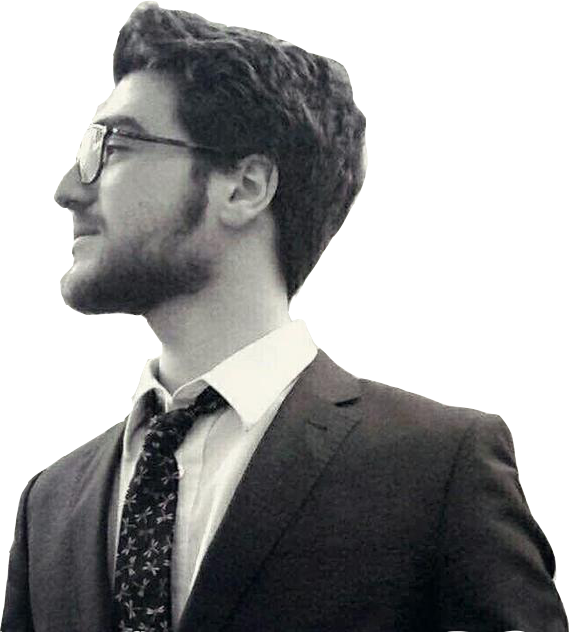
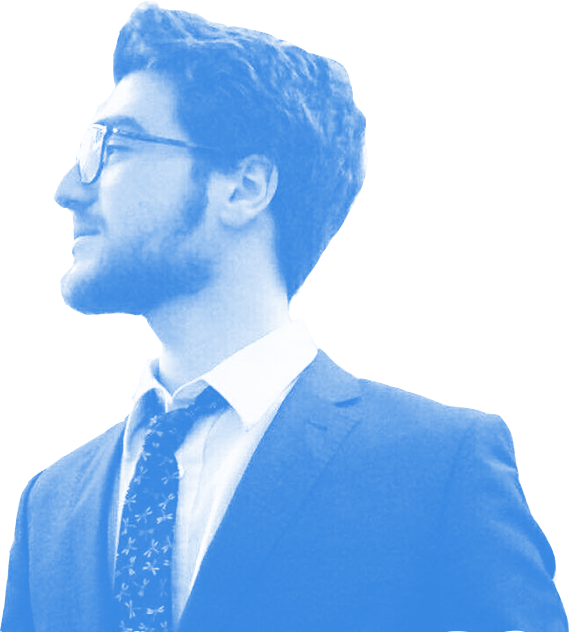
added 'about me' section and video

diff --git a/index.html b/index.html
@@ -16,7 +16,7 @@
     <title>Josh For America Exploratory Committee</title>
     <link rel="stylesheet" href="css/stylesheet.css">
     <link rel="stylesheet" href="css/bootstrap.css">
-    <link href="https://fonts.googleapis.com/css?family=Open+Sans:300,400,500,800|Satisfy" rel="stylesheet">
+    <link href="https://fonts.googleapis.com/css?family=Open+Sans:300,400,500,800" rel="stylesheet">
   </head>
   <body>
     <div class="main">
@@ -26,11 +26,16 @@
       <header>
         <h1 class="title">Josh for <br /> <span class="redtext">America</span></h1>
       </header>
-      <section class="intro">
+      <section id="intro">
         <h2>It's time for a new, <i>new</i> generation of American leadership</h2>
         <div class="textbox">
           <p>The American people are fed up with "business as usual" in Washington. We need honest leadership to renew our confidence in government from the ground up.</p>
         </div>
+      </section>
+      <section id="me">
+        <h2>Meet Josh</h2>
+        <p class="text">As the first Gen Z'er to declare candidacy for this auspicious office, you can trust that I'm the real deal. And I'm not joshin' you. Watch the video below to learn more about my campaign.</p>
+        <iframe style="display: block; margin: 15px auto;" width="65%" height="400" src="https://www.youtube.com/embed/8nTP3Yl2eNk" frameborder="0" allow="accelerometer; autoplay; encrypted-media; gyroscope; picture-in-picture" allowfullscreen></iframe>
       </section>
       <footer>
         <div class="paid-container">

diff --git a/css/stylesheet.css b/css/stylesheet.css
@@ -43,12 +43,11 @@ header .title{
   color: #ef6c6c;
 }
 
-.intro{
+#intro{
   padding: 15px;
-  height: 500px;
   background-color: #5066d2;
 }
-.intro h2{
+#intro h2{
   text-align: center;
   width: 55%;
   display: block;
@@ -61,7 +60,7 @@ header .title{
 .textbox{
   background-color: #fff;
   width: 75%;
-  margin: 45px auto 0px auto;
+  margin: 45px auto 45px auto;
   padding: 50px;
 
 }
@@ -70,10 +69,40 @@ header .title{
     color: #444;
     font-weight: 500;
 }
+
+#me{
+  background-color: #eee;
+  padding: 25px;
+}
+
+#me h2{
+  color: #0451a9;
+  text-align: center;
+  font-weight: 680;
+  font-size: 48px;
+}
+#me .cutout{
+  display: inline-block;
+  max-width: 100%;
+  -moz-transform: scaleX(-1);
+  -o-transform: scaleX(-1);
+  -webkit-transform: scaleX(-1);
+  transform: scaleX(-1);
+  filter: FlipH;
+  -ms-filter: "FlipH";
+}
+#me .text{
+  display: inline-block;
+  font-size: 28px;
+}
 @media(max-width: 767px){
   header .title{
     top: 58%;
     font-size: 85px;
+  }
+
+  iframe{
+    max-height: 250px;
   }
 }
 
